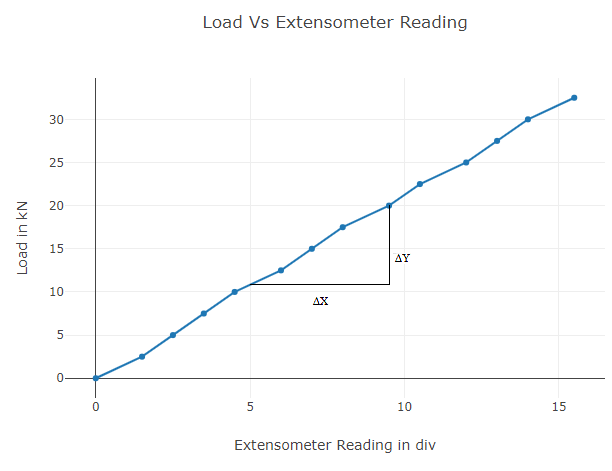
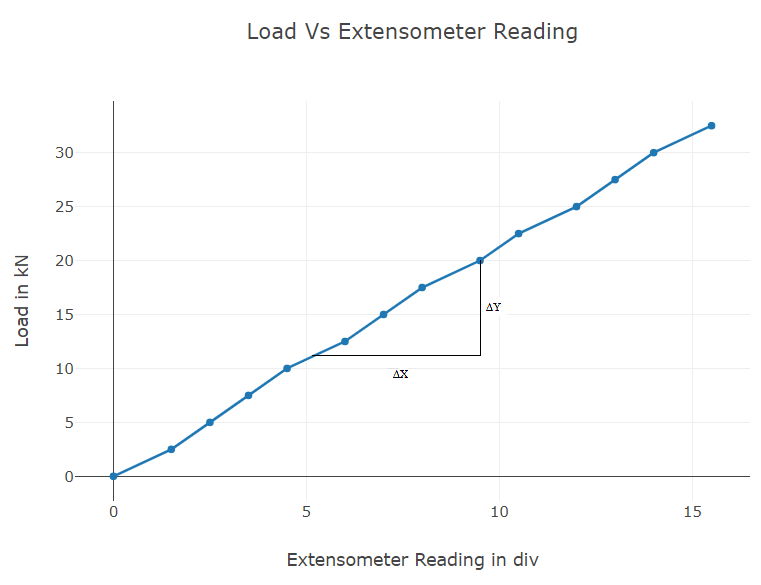
updated data

diff --git a/index.html b/index.html
@@ -158,16 +158,16 @@
 <div class="simsubscreen" id="canvas8"  style="visibility:hidden">
 	<strong class="incanvas">STEP &nbsp;</strong><span class="circlebg">&nbsp;8&nbsp;</span>
 	<p class="steptext" style="font-family:verdana; font-size:14px;">&nbsp;Graph.</p>
-	<img id="g1" style="position:absolute;left:5px; top:50px;visibility:hidden;" src="images/g1.PNG"/>
-	<img id="g2" style="position:absolute;left:5px; top:50px;visibility:hidden;" src="images/g2.PNG"/>
-	<img id="g3" style="position:absolute;left:5px; top:50px;visibility:hidden;" src="images/g3.PNG"/>
-	<img id="g4" style="position:absolute;left:5px; top:50px;visibility:hidden;" src="images/g4.PNG"/>
-	<img id="g5" style="position:absolute;left:5px; top:50px;visibility:hidden;" src="images/g5.PNG"/>
-	<img id="g6" style="position:absolute;left:5px; top:50px;visibility:hidden;" src="images/g6.PNG"/>
-	<img id="g7" style="position:absolute;left:5px; top:50px;visibility:hidden;" src="images/g7.PNG"/>
-	<img id="g8" style="position:absolute;left:5px; top:50px;visibility:hidden;" src="images/g8.PNG"/>
-	<img id="g9" style="position:absolute;left:5px; top:50px;visibility:hidden;" src="images/g9.PNG"/>
-	<img id="g10" style="position:absolute;left:5px; top:50px;visibility:hidden;" src="images/g10.PNG"/>
+	<img id="g1" style="position:absolute;left:5px; top:50px;visibility:hidden;width: 590px; height: 450px;" src="images/g1.PNG"/>
+	<img id="g2" style="position:absolute;left:5px; top:50px;visibility:hidden;width: 590px; height: 450px;" src="images/g2.PNG"/>
+	<img id="g3" style="position:absolute;left:5px; top:50px;visibility:hidden;width: 590px; height: 450px;" src="images/g3.PNG"/>
+	<img id="g4" style="position:absolute;left:5px; top:50px;visibility:hidden;width: 590px; height: 450px;" src="images/g4.PNG"/>
+	<img id="g5" style="position:absolute;left:5px; top:50px;visibility:hidden;width: 590px; height: 450px;" src="images/g5.PNG"/>
+	<img id="g6" style="position:absolute;left:5px; top:50px;visibility:hidden;width: 590px; height: 450px;" src="images/g6.PNG"/>
+	<img id="g7" style="position:absolute;left:5px; top:50px;visibility:hidden;width: 590px; height: 450px;" src="images/g7.PNG"/>
+	<img id="g8" style="position:absolute;left:5px; top:50px;visibility:hidden;width: 590px; height: 450px;" src="images/g8.PNG"/>
+	<img id="g9" style="position:absolute;left:5px; top:50px;visibility:hidden;width: 590px; height: 450px;" src="images/g9.PNG"/>
+	<img id="g10" style="position:absolute;left:5px; top:50px;visibility:hidden;width: 590px; height: 450px;" src="images/g10.PNG"/>
 	<div id="mydiv2" style="position:absolute;left:5px; top:30px;height: 500px;width:700px;"></div>
 	<div id="tablediv2" style="position:absolute;left:155px; top:30px;height: 500px;width:400px;overflow-y:auto;visibility:hidden;"></div>
 	<input type="button" id="vdata2" style="position:absolute;left:0px;top:450px;cursor:pointer" value="View Data" />
